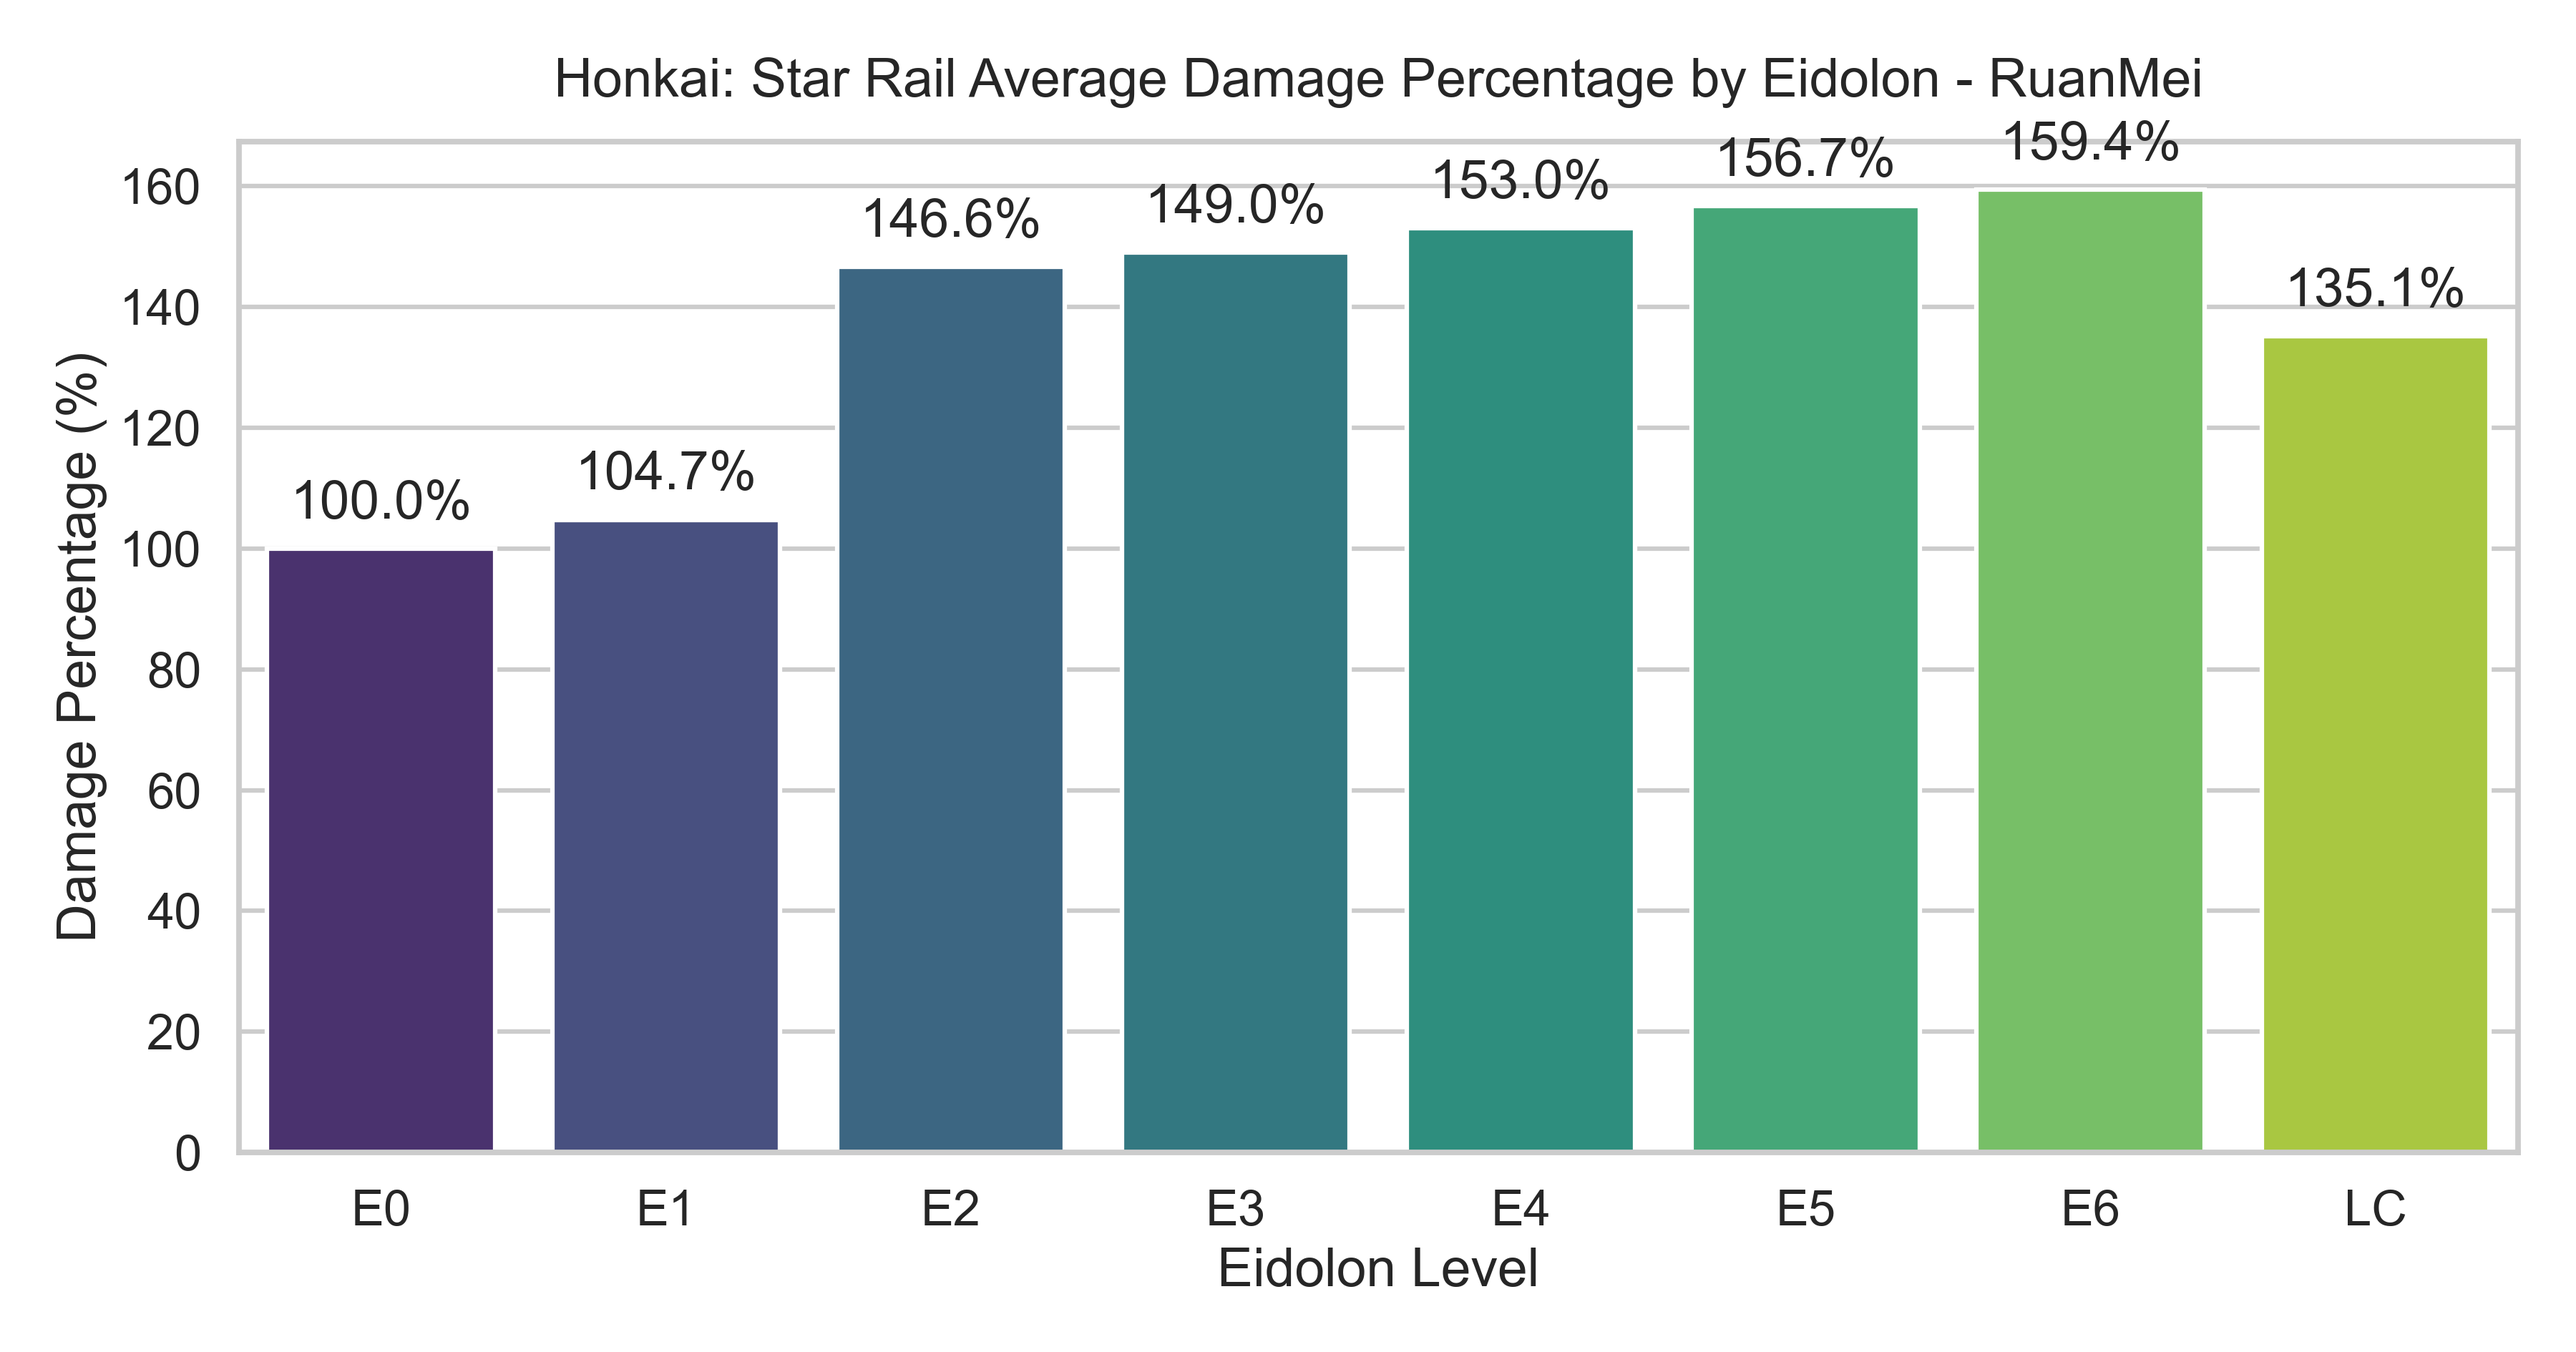
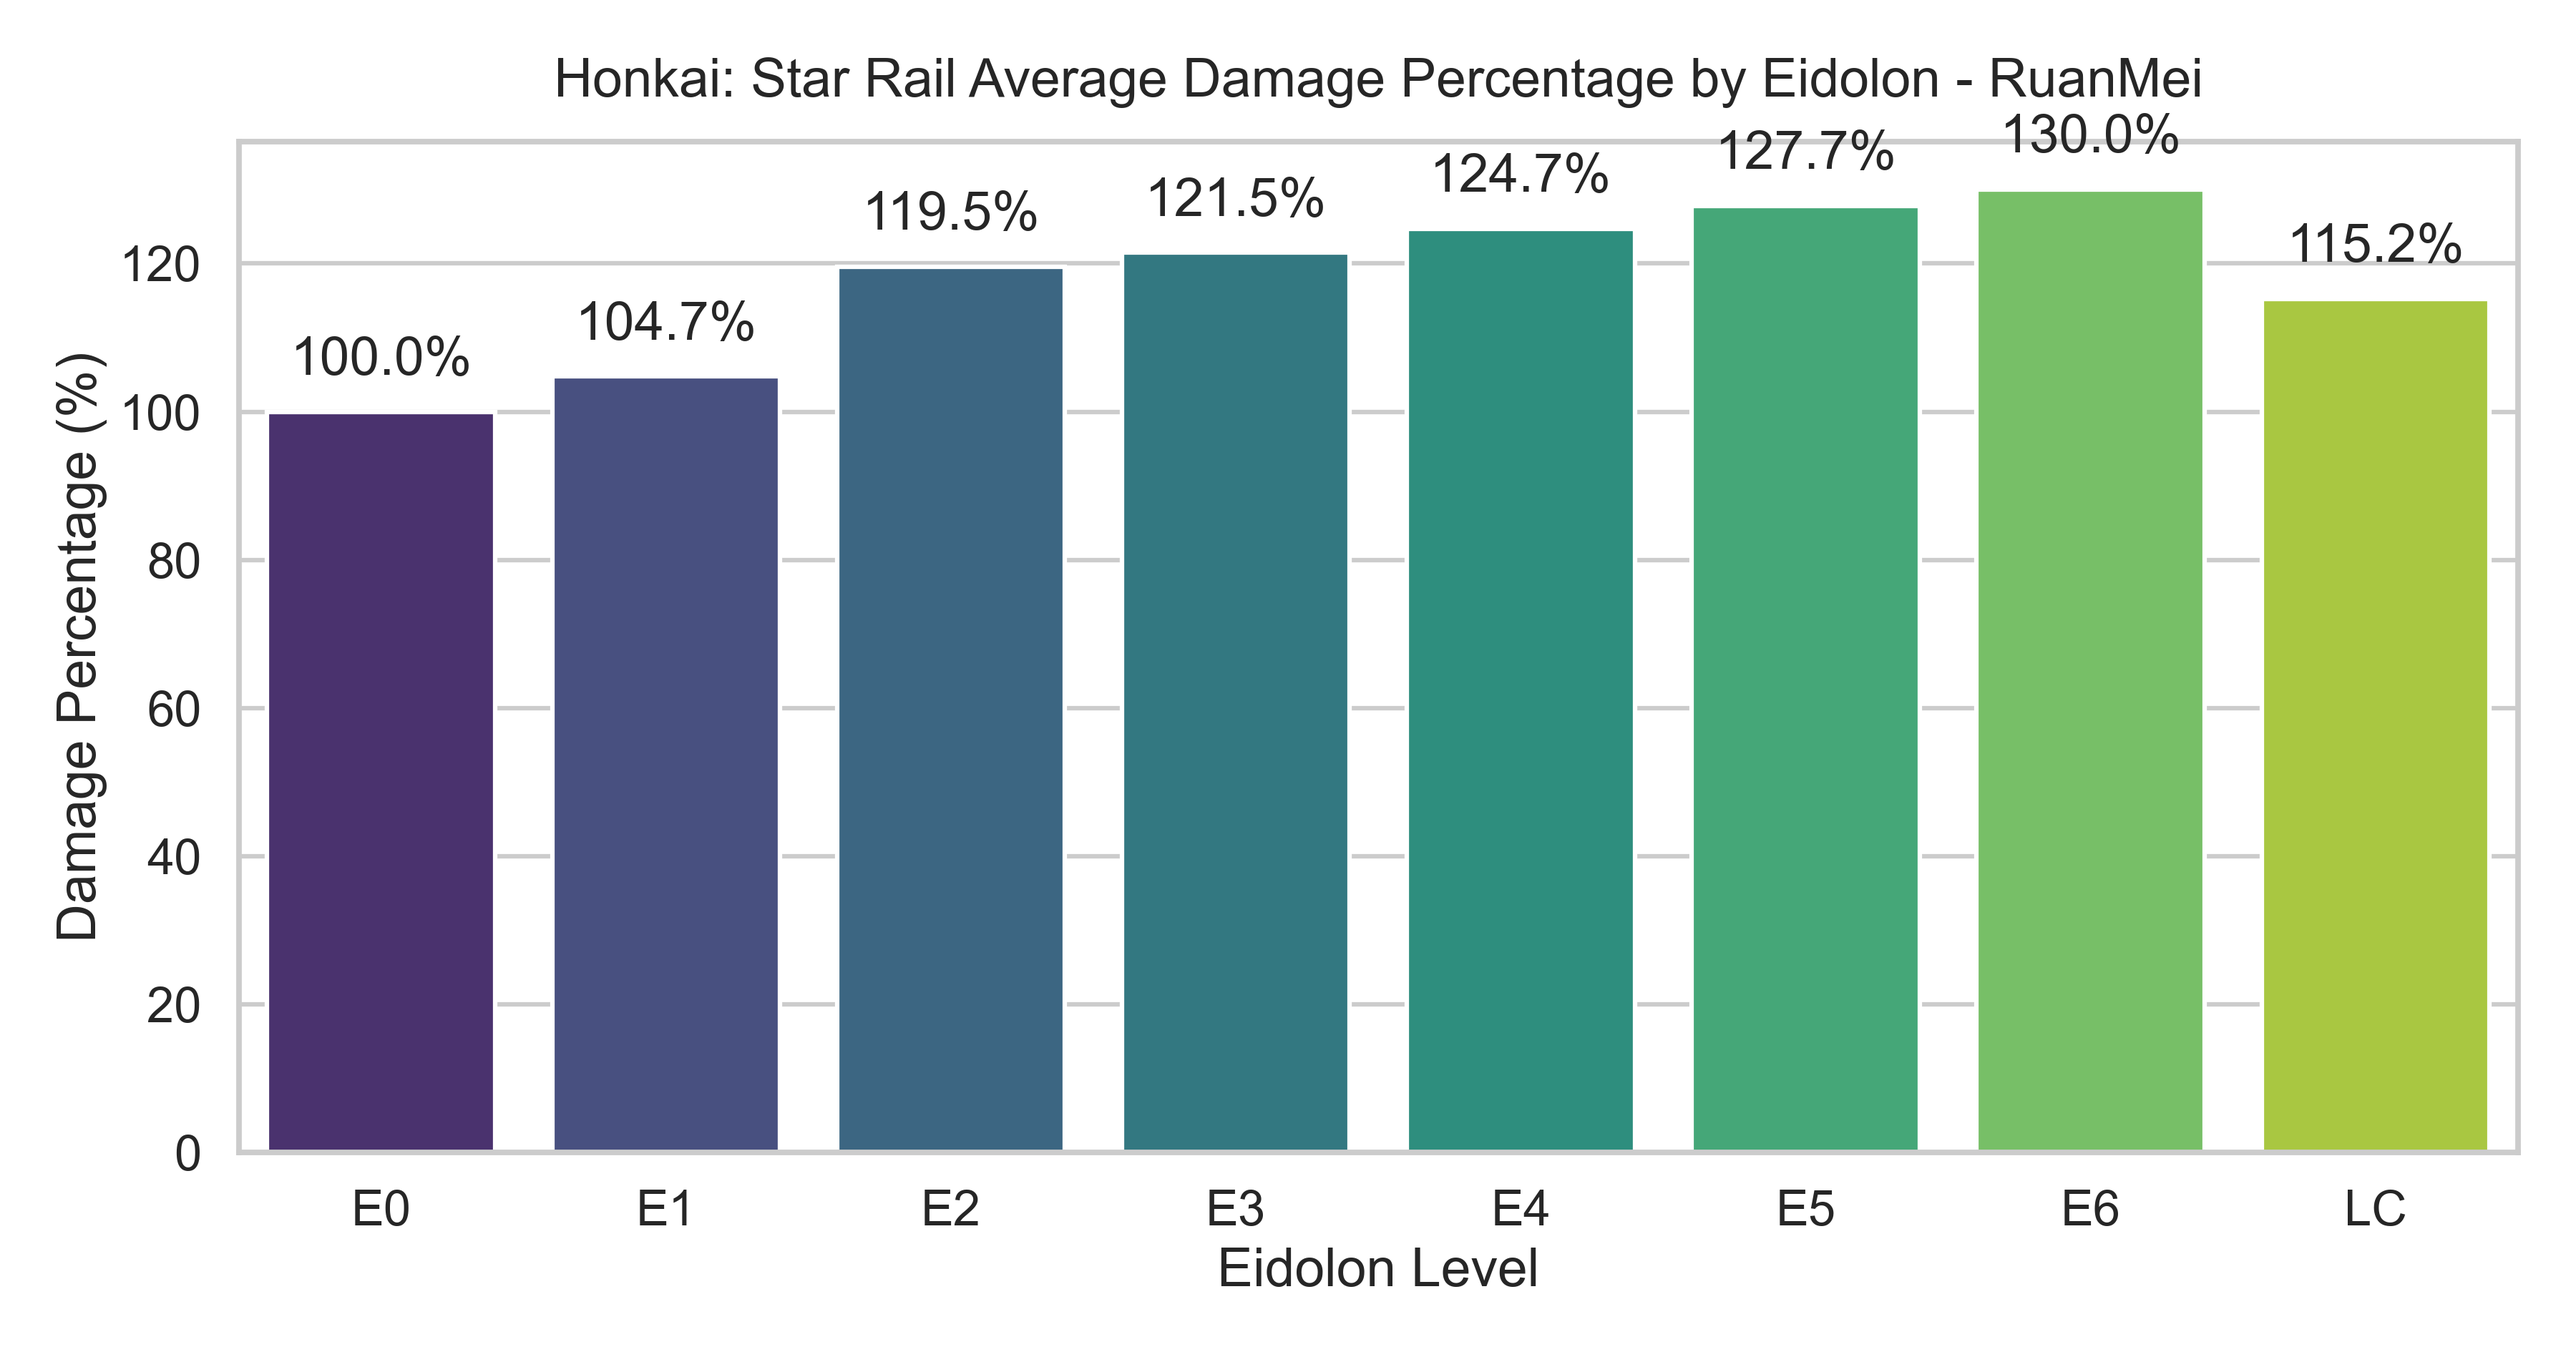
Add damage increase calculations for RuanMei class: implement methods to calculate damage increases from E2 ability and signature light cone ability, enhancing damage simulation accuracy.

diff --git a/simulations/characters/ruan_mei.py b/simulations/characters/ruan_mei.py
@@ -32,7 +32,7 @@ class RuanMei(Character):
         else:
             def_ignore = 0.0
         if has_e2:
-            atk_increase = 0.4
+            atk_increase = self.calculate_dmg_increased_from_e2()
         else:
             atk_increase = 0.0
         if has_e3:
@@ -53,7 +53,7 @@ class RuanMei(Character):
             ult_duration_increase = 0
         if has_lc:
             lc_increased_break_effect = 0.6
-            dmg_multiplier = 0.24
+            dmg_multiplier = self.calculate_dmg_increased_from_lc()
             skill_dmg_increase = self.calculate_dmg_increased_by_skill_points()
             energy_gain_increase = self.calculate_dmg_increased_from_energy_regen()
         else:
@@ -310,3 +310,93 @@ class RuanMei(Character):
         enhanced_dmg = simulate_dmg(True)
         
         return self.calculate_percent_change(base_dmg, enhanced_dmg)
+    
+    def calculate_dmg_increased_from_e2(self) -> float:
+        def simulate_dmg(has_e2: bool = False) -> float:
+            # Constants
+            enemy_toughness = 100
+            toughness_reduction_per_turn = 30
+            weakness_broken_duration_max = 2
+            total_turns = 1000
+            
+            # Initial state
+            current_enemy_toughness = enemy_toughness
+            total_damage = 0
+            weakness_broken_duration = 0
+            is_broken = False
+                
+            for _ in range(total_turns):
+                if current_enemy_toughness <= 0 and not is_broken:
+                    is_broken = True
+                    weakness_broken_duration = weakness_broken_duration_max
+                    
+                if is_broken:
+                    if has_e2:
+                        atk = self.atk * 1.4
+                        skil_dmg = self.calculate_dmg(atk, self.skill_multiplier) * 1.1
+                        total_damage += skil_dmg
+                    else:
+                        skil_dmg = self.calculate_dmg(self.atk, self.skill_multiplier) * 1.1               
+                        total_damage += skil_dmg
+                else:
+                    skil_dmg = self.calculate_dmg(self.atk, self.skill_multiplier)
+                    total_damage += skil_dmg                
+                # Apply toughness reduction when not broken
+                if not is_broken:
+                    current_enemy_toughness -= toughness_reduction_per_turn
+                
+                # Manage broken state duration
+                if is_broken:
+                    weakness_broken_duration -= 1
+                    if weakness_broken_duration <= 0:
+                        # Reset broken state, but don't immediately refill toughness
+                        is_broken = False
+                        current_enemy_toughness = enemy_toughness
+
+            return total_damage
+        
+        base_dmg = simulate_dmg()
+        enhanced_dmg = simulate_dmg(True)
+        return self.calculate_percent_change(base_dmg, enhanced_dmg)
+    
+    
+    def calculate_dmg_increased_from_lc(self) -> float:
+        def simulate_dmg(has_lc: bool = False) -> float:
+            ult_energy = self.ruan_mei_ult_energy
+            current_ult_energy = 0
+            total_damage = 0
+            current_ult_duration = 0
+            ult_duration = 3
+            energy_gain = 30
+            total_turns = 1000
+            
+            if has_lc:
+                dmg_multiplier = 0.24
+            else:
+                dmg_multiplier = 0.0
+                        
+            for _ in range(total_turns):
+                if current_ult_energy >= ult_energy:
+                    is_ult_active = True
+                    current_ult_energy = 0
+                    current_ult_duration = ult_duration
+                else:
+                    is_ult_active = False
+                    current_ult_duration = 0
+                
+                if is_ult_active:
+                    skil_dmg = self.calculate_dmg(self.atk, self.skill_multiplier) * (1 + self.RES_PEN_FROM_ULT) * (1 + dmg_multiplier)
+                    current_ult_duration -= 1
+                else:
+                    skil_dmg = self.calculate_dmg(self.atk, self.skill_multiplier)
+
+                total_damage += skil_dmg
+                current_ult_energy += energy_gain
+                    
+            return total_damage
+        
+        base_dmg = simulate_dmg()
+        enhanced_dmg = simulate_dmg(True)
+        
+        return self.calculate_percent_change(base_dmg, enhanced_dmg)
+            

diff --git a/simulations/characters/base_character.py b/simulations/characters/base_character.py
@@ -197,3 +197,16 @@ class Character:
             float: Percentage increase in damage from E2 ability
         """
         raise NotImplementedError("Subclasses should implement this method.")
+    
+    def calculate_dmg_increased_from_lc(self) -> float:
+        """
+        Calculate the damage increase from signature light cone ability.
+        
+        Compares two scenarios:
+        1. Base scenario: No light cone ability
+        2. Enhanced scenario: Light cone ability active
+        
+        Returns:
+            float: Percentage increase in damage from light cone ability
+        """
+        raise NotImplementedError("Subclasses should implement this method.")
